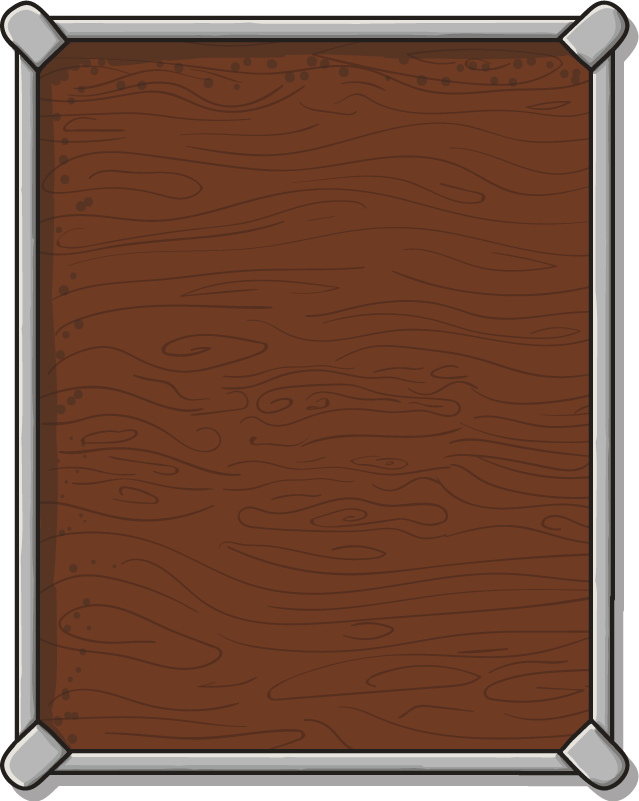
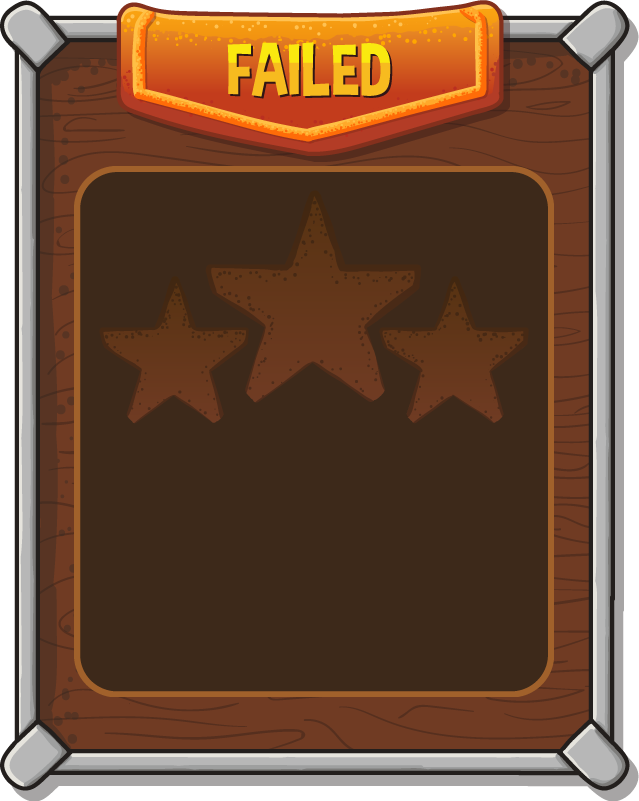
Выигрыш и проигрыш правильнее работают.

diff --git a/game.py b/game.py
@@ -49,7 +49,7 @@ try:
             OLD_MAN, DELAY, LIVES, STONE_TOWER, STONE_TOWER_IMG, TOWER_WIDTH, TOWER_HEIGHT, \
             WAIT_BETWEEN_WAVES, STONE_IMGS, COINS, LEVELS, NUMBER_OF_LEVELS
 
-        def reset_level():
+        def reset_level(lev):
             nonlocal iteration_number
             nonlocal geroes
             nonlocal selected_tower
@@ -60,6 +60,7 @@ try:
             iteration_number = 0
             selected_tower = None
             wave_number = 0
+            LEVELS[lev].reset()
 
         def addStoneTower(num):
             px, py = pygame.mouse.get_pos()
@@ -131,7 +132,6 @@ try:
 
         background = load_img('game_background.png')
         background = pygame.transform.scale(background, (WIDTH, HEIGHT))
-        screen = pygame.display.set_mode((WIDTH, HEIGHT))
         font = pygame.font.Font(resource_path('font.ttf'), 60)
         pygame.mixer.music.play(-1)
         pygame.mixer.music.set_volume(0)
@@ -141,6 +141,8 @@ try:
         wave_number = 0
         paths = [[tuple(map(int, line.split())) for line in open_file(
             'paths', pathname).read().splitlines()] for pathname in listdir(resource_path('paths'))]
+        cnt_stars = 0
+        screen = pygame.display.set_mode((WIDTH, HEIGHT))
         while True:
             if state == 'PAUSE' or state == 'NORMAL':
                 screen.blit(background, (0, 0))
@@ -181,6 +183,11 @@ try:
                                 isend = True
                     except IndexError:
                         state = 'WIN'
+                        cnt_stars = 1
+                        if LIVES >= LEVELS[level].onThree:
+                            cnt_stars = 3
+                        elif LIVES >= LEVELS[level].onTwo:
+                            cnt_stars = 2
                     for geroy in geroes:
                         if geroy.move():
                             LIVES -= geroy.fine
@@ -251,11 +258,6 @@ try:
                         elif e.type == pygame.KEYUP:
                             state = 'NORMAL'
             elif state == 'WIN':
-                cnt_stars = 1
-                if LIVES >= LEVELS[level].onThree:
-                    cnt_stars = 3
-                elif LIVES >= LEVELS[level].onTwo:
-                    cnt_stars = 2
                 screen.blit(background, (0, 0))
                 table, button_menu, arrow_right, molnya = load_images('win', ['table.png',
                                                                               'button_menu.png', 'arrow_right.png',
@@ -283,25 +285,39 @@ try:
                 screen.blit(molnya, (585, 472))
                 if to_menu.try_push(events):
                     state = 'IN_CHOOSE_LEVEL_MENU'
+                    reset_level(level)
                 elif next_level.try_push(events):
                     state = 'NORMAL'
-                    reset_level()
+                    reset_level(level)
                     level += 1
                     WAVES = LEVELS[level].waves
                     LIVES = LEVELS[level].lives
                     COINS = LEVELS[level].coins
-
             elif state == 'LOST':
-                screen.fill((255, 0, 0))
-                font = pygame.font.Font(open_file('font.ttf'), 250)
-                screen.blit(font.render('YOU LOST!!!', True, (0, 0, 0)), (0, 150))
-                for e in pygame.event.get():
-                    if e.type == pygame.QUIT:
+                screen.blit(background, (0, 0))
+                table, button_menu, restart = load_images('failed', ['table.png',
+                                                                     'button_menu.png', 'button_restart.png',
+                                                                     ], 0.70, 0.70)
+                screen.blit(table, (340, 80))
+                restart, to_menu = Button(restart, 588, 538), Button(button_menu, 414, 538)
+                restart.draw(screen)
+                to_menu.draw(screen)
+                events = pygame.event.get()
+                for event in events:
+                    if event.type == pygame.QUIT:
                         sys.exit()
-                    elif e.type == pygame.MOUSEBUTTONUP:
-                        sys.exit()
-                    elif e.type == pygame.KEYUP:
-                        sys.exit()
+                _font2 = pygame.font.Font(resource_path('font.ttf'), 35)
+                _font1 = pygame.font.Font(resource_path('font.ttf'), 70)
+                screen.blit(_font1.render('SORRY :(', True, (219, 200, 153)), (435, 383))
+                screen.blit(_font2.render('LEVEL FAILED', True, (219, 200, 153)), (466, 460))
+                if to_menu.try_push(events):
+                    state = 'IN_CHOOSE_LEVEL_MENU'
+                elif restart.try_push(events):
+                    state = 'NORMAL'
+                    reset_level(level)
+                    WAVES = LEVELS[level].waves
+                    LIVES = LEVELS[level].lives
+                    COINS = LEVELS[level].coins
             elif state == 'IN_START_MENU':
                 screen.blit(background, (0, 0))
                 font_ = pygame.font.Font(resource_path('font.ttf'), 150)
@@ -314,7 +330,6 @@ try:
                 if button_start.try_push(events):
                     state = 'IN_CHOOSE_LEVEL_MENU'
             elif state == 'IN_CHOOSE_LEVEL_MENU':
-                reset_level()
                 screen.blit(background, (0, 0))
                 table, level_imgs, arrow_left, arrow_right = load_images('level_buttons', ['table.png',
                                                                                            [str(i) + '.png' for i in

diff --git a/constants.py b/constants.py
@@ -4,7 +4,6 @@ from utils import resource_path
 
 def get_levels():
     f = open(resource_path('levels.txt'))
-    i = 0
     le = []
     for line in f.readlines():
         le.append(Level(*eval(line)))
@@ -22,6 +21,9 @@ class Level:
         self.waves = waves
         self.getCoins = [coinsOneStar, coinsTwoStar, coinsThreeStar]
 
+    def reset(self):
+        for wave in self.waves:
+            wave.reset()
 
 
 class Wave:
@@ -33,6 +35,9 @@ class Wave:
         self.heroes = heroes
         self.fines = fines
         self.rewards = rewards
+        self.i = 0
+
+    def reset(self):
         self.i = 0
 
     def next(self):
